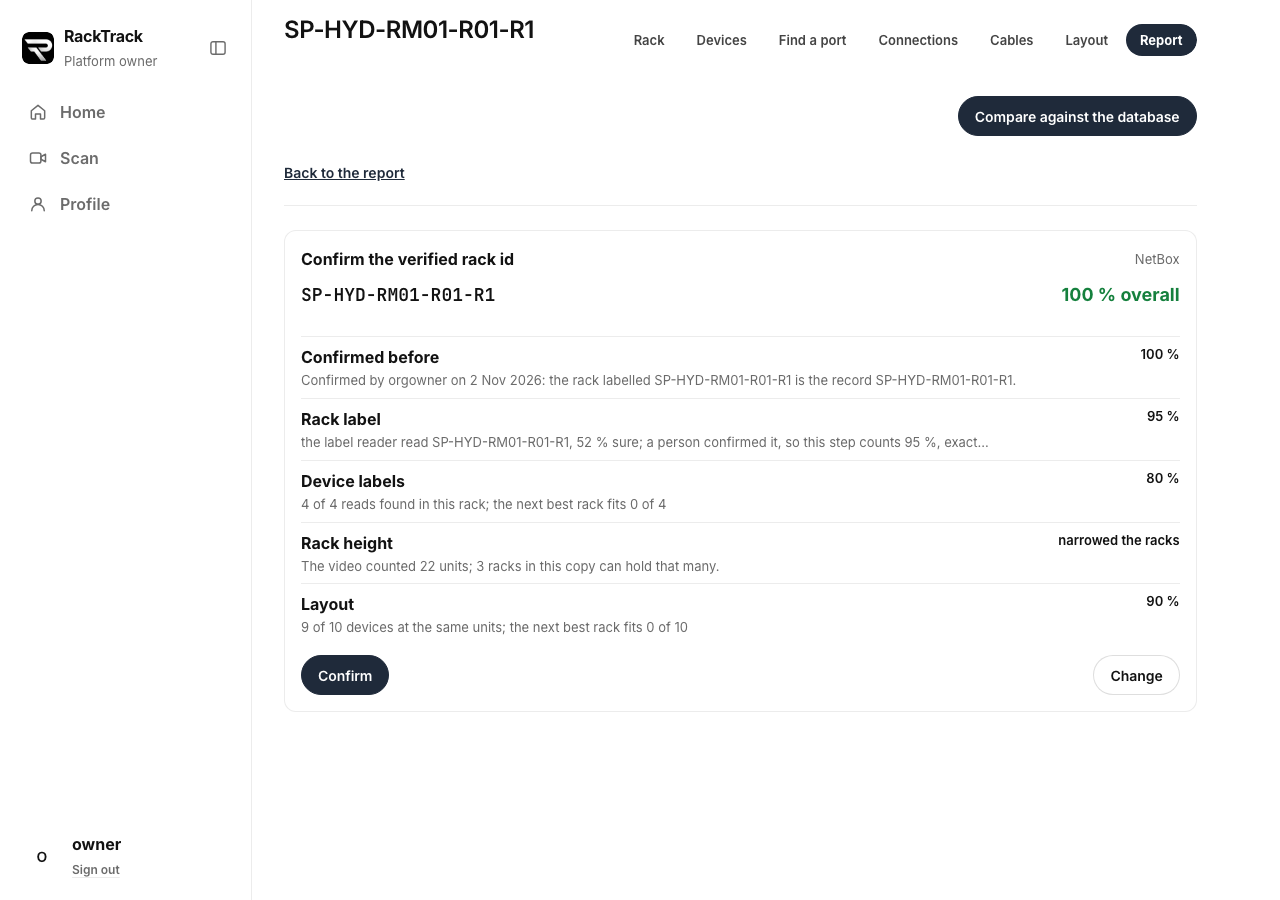
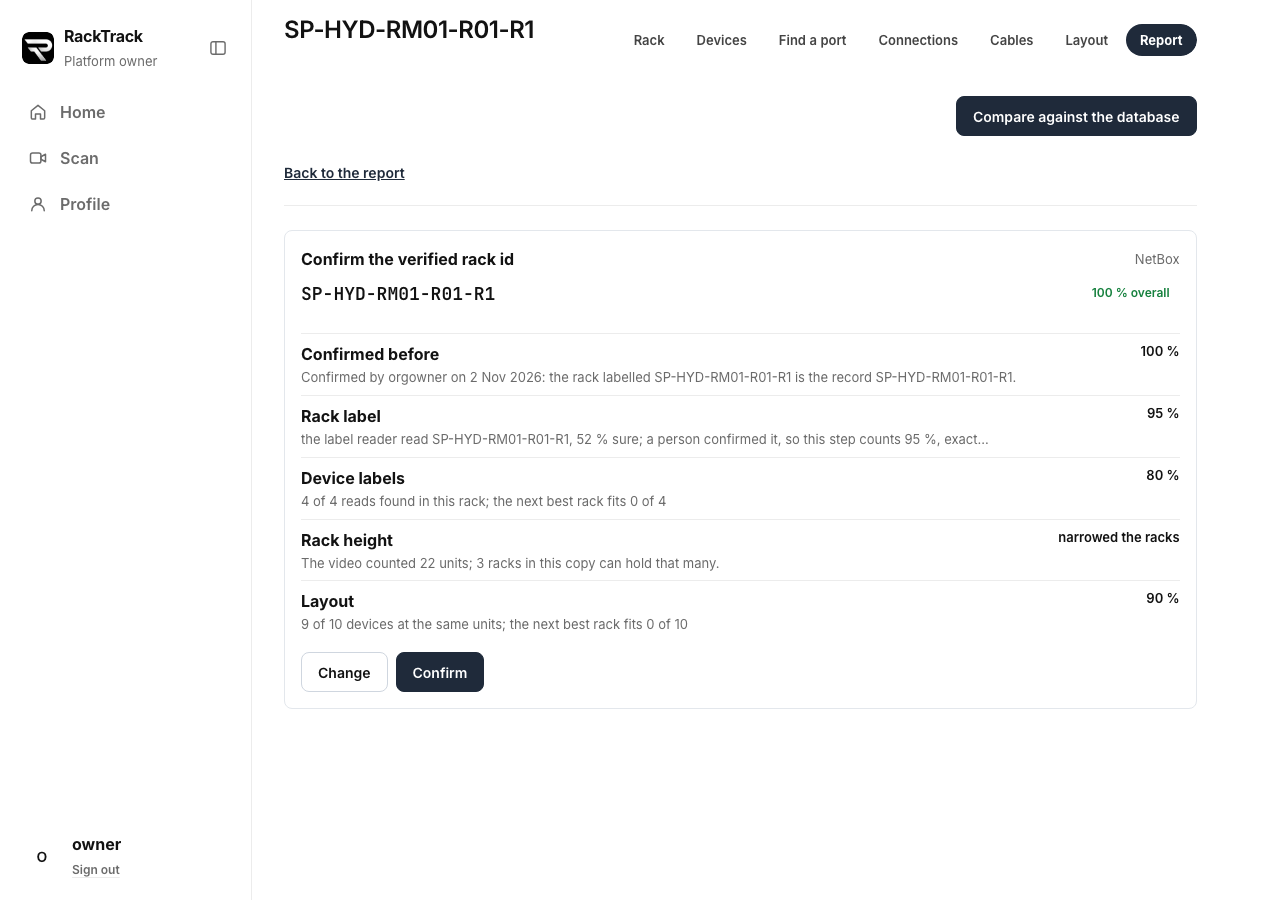
Handover note updated with the owner's UI decisions and the evening state

diff --git a/docs/HANDOVER.md b/docs/HANDOVER.md
@@ -26,3 +26,11 @@ racktrack-app is the core: its video engine reads a rack from a sweep video. We 
 - The result is four parts: Rack, Devices, Layout (the rack elevation drawn from the data), Report; the compare (rack identification steps 0 to 6 with proof and confidence, then the differences) lives in the Report. Copy-in and logins are under Profile. Proof: tools/proof_flow.py, tools/proof_widths.py.
 - docs/CROSSCHECK.md (the live cross-check), docs/EVALUATION.md (tools/evaluate.py), docs/AUTH.md (sign-in, five roles, removals), docs/TODAY-STATUS.md (evening table and what is still open).
 - tools/proof_today.py, proof_afternoon.py and proof_crosscheck.py drive the old Drift tab and name-only sign-in: kept as the record, no longer runnable as they are.
+
+## Owner's UI decisions, 2 Nov evening
+- Keep the Rack, Devices and Layout tabs exactly as they are now ("I love them"). Do not change them.
+- Accent: subtle black (#1f2a3a), not green and not teal. Green, amber and red only as states.
+- Each tab is its own screen, no long scrolling, nothing repeated across tabs. The Report holds only the report, with "Compare against the database" top right: dropdown of three, confirm the verified rack id, then the drift.
+- Sign-in: simple, centred in the middle of the window. "Reading the rack" is like RT-EOS's analysing page plus racktrack-app's run page.
+- The mockup in docs/design/ is the reference for Home, Scan, the run, Sign in and the Report; it must be updated to the subtle black accent before the rebuild.
+- Later the same evening: the owner also likes the Report tab as it is now, and the Compare against the database flow on it. The remaining pages are good. So the result screens (Rack, Devices, Layout, Report with its compare flow) are APPROVED and must not be redesigned; the mockup applies only to Sign in, Home, Scan and the run screen, with the subtle black accent.
